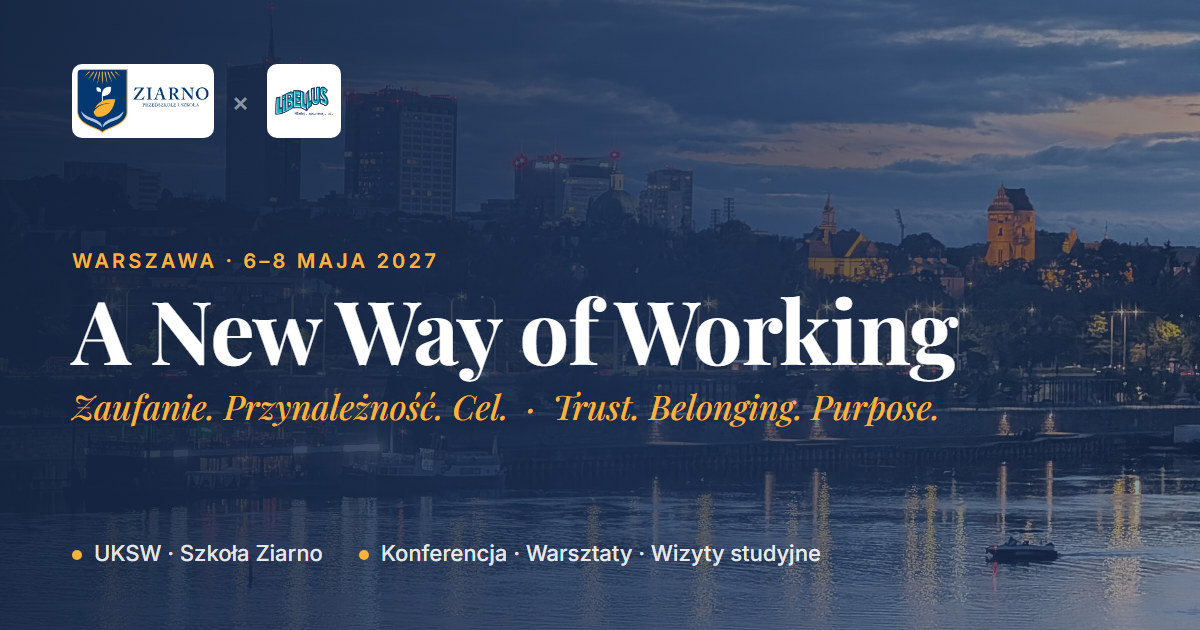
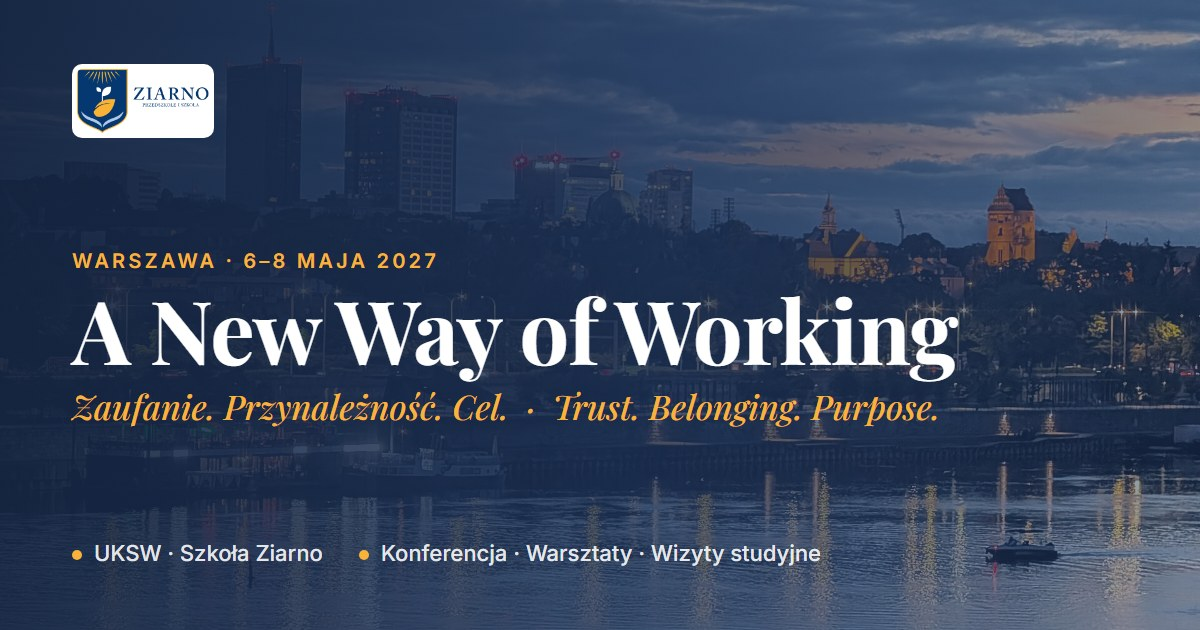
Poprawki Anety: kształtować, tytuł wykładu Lucíi, Chorwacja i Hiszpania, Libellus w partnerach, kolejność prelegentów, wizyty dla gości z zagranicy, kolejne warsztaty
Ukryte zaślepki TODO w sekcji Partnerzy; obrazek OG bez logo Libellus.

diff --git a/content/pl.js b/content/pl.js
@@ -47,18 +47,18 @@ window.CONTENT.pl = {
   why: {
     eyebrow: "Dlaczego warto",
     title: "Edukacja jest lepsza, gdy robimy ją razem",
-    lead: "Trzy dni w Warszawie z edukatorami, którzy dzielą Twoją misję: formować całego człowieka, nie tylko realizować podstawę programową.",
+    lead: "Trzy dni w Warszawie z edukatorami, którzy dzielą Twoją misję: kształtować całego człowieka, nie tylko realizować podstawę programową.",
     items: [
-      { icon: "users", title: "Buduj relacje", text: "Dołącz do edukatorów z Europy Środkowo-Wschodniej. Tworzymy przestrzeń dla przyjaźni i sojuszy, które trwają lata po zakończeniu konferencji." },
+      { icon: "users", title: "Buduj relacje", text: "Dołącz do edukatorów z Europy Środkowo-Wschodniej, Chorwacji i Hiszpanii. Tworzymy przestrzeń dla przyjaźni i sojuszy, które trwają lata po zakończeniu konferencji." },
       { icon: "message", title: "Dziel się praktyką", text: "Twoje doświadczenie jest bezcenne. Wymieńmy się rozwiązaniami w zakresie tutoringu i kształtowania charakteru, które sprawdziły się w realnych klasach, nie tylko w podręcznikach." },
-      { icon: "bulb", title: "Czas na refleksję", text: "Zatrzymaj się, by wraz z osobami rozumiejącymi Twoją misję uczciwie zastanowić się nad wyzwaniami formowania całego człowieka." },
+      { icon: "bulb", title: "Czas na refleksję", text: "Zatrzymaj się, by wraz z osobami rozumiejącymi Twoją misję uczciwie zastanowić się nad wyzwaniami kształtowania całego człowieka." },
     ],
   },
 
   who: {
     eyebrow: "Dla kogo",
     title: "Dla tych, którzy budują kulturę szkoły",
-    lead: "Niezależnie od tego, czy prowadzisz szkołę, uczysz, czy dopiero zaczynasz — jeśli formowanie całego człowieka jest sercem Twojej pracy, to spotkanie jest dla Ciebie.",
+    lead: "Niezależnie od tego, czy prowadzisz szkołę, uczysz, czy dopiero zaczynasz — jeśli kształtowanie całego człowieka jest sercem Twojej pracy, to spotkanie jest dla Ciebie.",
     items: [
       { title: "Liderzy szkół", text: "Zarządzający placówkami opartymi na wartościach." },
       { title: "Założyciele", text: "Twórcy nowych projektów edukacyjnych szukający merytorycznego wsparcia." },
@@ -82,13 +82,13 @@ window.CONTENT.pl = {
         theme: "Doświadczenie w terenie",
         blocks: [
           {
-            time: "dla chętnych",
+            time: "dla gości z zagranicy",
             venue: "Szkoły Strumienie (Józefów) i Azymut (Pruszków)",
             mapUrl: "https://www.google.com/maps/search/?api=1&query=Strumienie+Sternik+3+Maja+129+J%C3%B3zef%C3%B3w",
-            kicker: "Wizyty studyjne (opcjonalnie)",
+            kicker: "Wizyty studyjne dla gości z zagranicy",
             title: "Zwiedzanie szkół Strumienie i Azymut",
             text: "Obserwacja kultury organizacyjnej w praktyce: lekcje, tutoring, codzienne rytuały szkoły.",
-            bullets: ["Udział dla chętnych — zaznacz w formularzu zapisów.", "Grupy w małym składzie, oprowadzanie przez kadrę szkoły.", "TODO: godziny, punkt zbiórki i transport z Warszawy."],
+            bullets: ["Program dla gości z zagranicy — zaznacz udział w formularzu zapisów.", "Grupy w małym składzie, oprowadzanie przez kadrę szkoły.", "TODO: godziny, punkt zbiórki i transport z Warszawy."],
           },
           {
             time: "18:00",
@@ -116,7 +116,7 @@ window.CONTENT.pl = {
             items: [
               { time: "9:15", title: "Rejestracja i poranna kawa", note: "Networking otwarcia." },
               { time: "10:00", who: "TODO prelegent", title: "Otwarcie konferencji", note: "TODO opis sesji." },
-              { time: "10:15", who: "Lucía Calvo", lang: "EN", title: "TODO tytuł wystąpienia", note: "Tożsamość szkół edukacji spersonalizowanej i ich rola w nowoczesnym społeczeństwie." },
+              { time: "10:15", who: "Lucía Calvo", lang: "EN", title: "Szkoły budujące zaufanie: wyzwanie związane z nawiązywaniem więzi", note: "Tożsamość szkół edukacji spersonalizowanej i ich rola w nowoczesnym społeczeństwie." },
               { time: "11:00", who: "Dobrochna Lama", lang: "PL", title: "Kultura pracy, która wydobywa najlepsze z ludzi", note: "Zarządzanie, które służy, i ludzie na pierwszym miejscu — dwa Standardy Jakości Edukacji Spersonalizowanej w codziennej praktyce szkoły.",
                 abstract: [
                   "Czy dobra szkoła zaczyna się w klasie? A może trochę wcześniej — w pokoju nauczycielskim, w gabinecie dyrektora i przy stole, przy którym zapadają decyzje?",
@@ -202,10 +202,10 @@ window.CONTENT.pl = {
     ],
     workshops: {
       title: "Warsztaty — wybierasz w panelu uczestnika",
-      text: "Liczba miejsc na warsztatach jest ograniczona. W każdym z trzech bloków kilka sesji odbywa się równolegle, każda dla maksymalnie 40 osób. Lista prowadzących może się jeszcze poszerzyć — szczegółowy plan (godziny i sale) podamy bliżej konferencji.",
+      text: "Liczba miejsc na warsztatach jest ograniczona. W każdym z trzech bloków kilka sesji odbywa się równolegle, każda dla maksymalnie 40 osób. Dołączą kolejne osoby prowadzące — o nowych warsztatach będziemy informować na bieżąco. Szczegółowy plan (godziny i sale) podamy bliżej konferencji.",
       items: [
-        { speaker: "Lucía Calvo", sessions: [{ title: "TODO tytuł warsztatu", lang: "EN" }, { title: "TODO tytuł warsztatu", lang: "ES" }] },
         { speaker: "Dobrochna Lama", sessions: [{ title: "Kultura pracy, która wydobywa najlepsze z ludzi — warsztat", lang: "PL" }, { title: "A work culture that brings out the best in people — workshop", lang: "EN" }] },
+        { speaker: "Lucía Calvo", sessions: [{ title: "TODO tytuł warsztatu", lang: "EN" }, { title: "TODO tytuł warsztatu", lang: "ES" }] },
         { speaker: "Magda Tecław", sessions: [{ title: "Kształtowanie kultury szkoły w praktyce", lang: "PL" }, { title: "Shaping school culture in practice", lang: "EN" }] },
       ],
     },
@@ -219,8 +219,8 @@ window.CONTENT.pl = {
     readMore: "Czytaj więcej",
     readLess: "Zwiń",
     items: [
-      { name: "Lucía Calvo", role: "Red Educativa Arenales · Madryt", short: "Pedagożka i anglistka, która łączy kierowanie szkołami z pracą w klasie. Doradczyni sieci szkół Arenales, współpracuje z EASSE.", bio: "Urodziła się w Madrycie, a uczyła się w bardzo różnych szkołach: publicznych i prywatnych, koedukacyjnych i z edukacją zróżnicowaną, hiszpańskich i międzynarodowych — w Madrycie, Barcelonie, Cambridge, Rzymie i Sydney. Ukończyła pedagogikę (Magisterio y Ciencias de la Educación) na Uniwersytecie Complutense w Madrycie, a jako stypendystka — studia MA z lingwistyki na Macquarie University w Sydney. Zawodowo zawsze zajmowała się edukacją i nauczaniem angielskiego: dziesięć lat w szkolnictwie publicznym, potem w szkołach prywatnych i dotowanych przez państwo. Przez lata łączyła kierowanie kilkoma placówkami z uczeniem, zawsze w bliskim kontakcie z rodzinami i uczniami. Jest doradczynią sieci szkół Red Educativa Arenales i członkinią rady Fundacji Tacumi, która wspiera włączanie uczniów z niepełnosprawnością intelektualną do szkół ogólnodostępnych. Współpracuje z EASSE (European Association for Single-Sex Education) i należy do Hiszpańskiego Stowarzyszenia Kobiet Liderek w Edukacji. Zajmuje się formacją nauczycieli: wzmacnia ich przywództwo, poszerza horyzonty zawodowe i pomaga iść dalej w personalizacji edukacji.", photo: "images/speakers/lucia-calvo.jpg" },
       { name: "Dobrochna Lama", role: "Przywództwo i rozwój organizacji edukacyjnych", short: "Od ponad 20 lat łączy edukację, przywództwo i rozwój organizacyjny — jako nauczycielka, dyrektorka, konsultantka i menedżerka organizacji edukacyjnych.", bio: "Specjalizuje się w budowaniu i rozwijaniu organizacji, które pomagają ludziom wzrastać. Współtworzyła projekty edukacyjne o trwałym wpływie społecznym: szkolenia, rozwój liderów, prowadzenie placówek i wsparcie instytucji edukacyjnych w całej Polsce. Rozwijała programy obejmujące ponad 3000 nauczycieli rocznie, wspierała powstanie ponad 40 placówek edukacyjnych, zarządzała organizacjami zatrudniającymi ponad 200 osób i odpowiadała za budżety przekraczające 20 mln zł rocznych przychodów operacyjnych. Najbliższe są jej przedsięwzięcia tworzone od podstaw i organizacje w fazie dynamicznego wzrostu — jej mocną stroną jest przekładanie ambitnej wizji na sprawne struktury, procesy i zespoły. Ukończyła międzynarodowe programy menedżerskie w IESE Business School i Universidad Villanueva. Wierzy, że trwałe rezultaty powstają tam, gdzie wysoka jakość zarządzania spotyka się z troską o rozwój ludzi i jasno określoną misją.", photo: "images/speakers/dobrochna-lama.jpg" },
+      { name: "Lucía Calvo", role: "Red Educativa Arenales · Madryt", short: "Pedagożka i anglistka, która łączy kierowanie szkołami z pracą w klasie. Doradczyni sieci szkół Arenales, współpracuje z EASSE.", bio: "Urodziła się w Madrycie, a uczyła się w bardzo różnych szkołach: publicznych i prywatnych, koedukacyjnych i z edukacją zróżnicowaną, hiszpańskich i międzynarodowych — w Madrycie, Barcelonie, Cambridge, Rzymie i Sydney. Ukończyła pedagogikę (Magisterio y Ciencias de la Educación) na Uniwersytecie Complutense w Madrycie, a jako stypendystka — studia MA z lingwistyki na Macquarie University w Sydney. Zawodowo zawsze zajmowała się edukacją i nauczaniem angielskiego: dziesięć lat w szkolnictwie publicznym, potem w szkołach prywatnych i dotowanych przez państwo. Przez lata łączyła kierowanie kilkoma placówkami z uczeniem, zawsze w bliskim kontakcie z rodzinami i uczniami. Jest doradczynią sieci szkół Red Educativa Arenales i członkinią rady Fundacji Tacumi, która wspiera włączanie uczniów z niepełnosprawnością intelektualną do szkół ogólnodostępnych. Współpracuje z EASSE (European Association for Single-Sex Education) i należy do Hiszpańskiego Stowarzyszenia Kobiet Liderek w Edukacji. Zajmuje się formacją nauczycieli: wzmacnia ich przywództwo, poszerza horyzonty zawodowe i pomaga iść dalej w personalizacji edukacji.", photo: "images/speakers/lucia-calvo.jpg" },
       { name: "dr Stanisław Kowal", role: "Uniwersytet Jagielloński · Fundacja Sternik-Kraków", short: "Doktor pedagogiki, adiunkt w Studium Pedagogicznym UJ, dyrektor ds. edukacji Fundacji Sternik-Kraków i współzałożyciel szkół pracujących w nurcie edukacji spersonalizowanej.", bio: "Przez wiele lat kierował Centrum Kształcenia Nauczycieli Uniwersytetu Pedagogicznego w Krakowie. Jest autorem wielu publikacji naukowych, przede wszystkim z zakresu pedeutologii (nauki o nauczycielu), a także tekstów popularyzujących wiedzę pedagogiczną w czasopismach dla nauczycieli, wychowawców i rodziców. Organizuje i prowadzi konferencje naukowe oraz popularyzatorskie dla nauczycieli i rodziców. Opracował programy studiów podyplomowych przygotowujących do pracy nauczyciela, w tym pierwsze w Polsce studia podyplomowe z edukacji spersonalizowanej. Ekspert Ministerstwa Edukacji Narodowej oraz Ministerstwa Nauki i Szkolnictwa Wyższego ds. standardu kształcenia nauczycieli. Tutor akademicki i rodzinny. Współzałożyciel przedszkola i szkół Źródło i Wierchy w Krakowie. Mąż Marii, ojciec Marii, Julianny, Franciszka, Józefa, Ludwika, Wojciecha i Andrzeja.", photo: "images/speakers/stanislaw-kowal.jpg" },
       { name: "Magda Tecław", role: "Haileybury Malta · kultura szkoły", short: "Nauczycielka i liderka edukacyjna z ponad 20-letnim doświadczeniem w brytyjskich szkołach prywatnych, autorka książki „Zawód Nauczyciel”. Obecnie uczy w Haileybury Malta.", bio: "Przez ponad dwie dekady mieszkała w Wielkiej Brytanii, gdzie uczyła w szkołach podstawowych i średnich oraz pełniła funkcje kierownicze. Ukończyła PGCE in Secondary Education na University of East London, MA in Leadership in Catholic Education na St Mary’s University w Londynie, MA in Education na University of York, MA in Comparative Education na University College London (UCL) oraz MSc in Educational Assessment na Uniwersytecie Oksfordzkim. Jest autorką książki „Zawód Nauczyciel”, wydanej w Polsce w 2024 roku. Wiedzę akademicką łączy z codzienną pracą w klasie i wspieraniem innych nauczycieli. Mieszka na Malcie i uczy w brytyjskiej szkole międzynarodowej Haileybury Malta. Prywatnie żona i mama trojga studentów oraz nastoletniej córki; w wolnych chwilach nurkuje.", photo: "images/speakers/magda-teclaw.jpg" },
     ],
@@ -228,11 +228,10 @@ window.CONTENT.pl = {
 
   organisers: {
     eyebrow: "Organizatorzy",
-    title: "Gospodarz i partnerzy",
+    title: "Gospodarz i partner merytoryczny",
     items: [
       { name: "Szkoła Ziarno", tag: "Gospodarz edycji 2027", text: "Placówka edukacyjna w Warszawie — przedszkole i dwujęzyczna szkoła podstawowa — będąca żywym przykładem wdrażania omawianych wartości: personalizacji, partnerstwa z rodziną i wychowania charakteru.", url: "https://www.ziarno.edu.pl/", logo: "ziarno" },
       { name: "Red Educativa Arenales", tag: "Partner merytoryczny", text: "Sieć ponad 40 szkół w Hiszpanii i na świecie, rozwijająca edukację spersonalizowaną — partner merytoryczny konferencji.", url: "", logo: "", abbr: "Arenales" },
-      { name: "Škola Libellus", tag: "Inicjator cyklu NWoW", text: "Szkoła z Bratysławy — inicjator cyklu konferencji New Way of Working i gospodarz edycji 2026.", url: "https://skolalibellus.sk/", logo: "libellus" },
     ],
   },
 
@@ -240,6 +239,7 @@ window.CONTENT.pl = {
     eyebrow: "Partnerzy",
     title: "Połączeni wspólną wizją edukacji",
     items: [
+      { name: "Škola Libellus", url: "https://skolalibellus.sk/", logo: "" },
       { name: "EASSE", url: "https://www.easse.org/", logo: "" },
       { name: "Be-come", url: "https://be-come.org/en/", logo: "" },
       { name: "Akademia Rodzinna", url: "https://www.ziarno.edu.pl/akademia-rodzinna/", logo: "" },
@@ -282,7 +282,7 @@ window.CONTENT.pl = {
       { q: "Potrzebuję zaproszenia do wizy — czy je wystawicie?", a: "<p>Tak. Po opłaceniu udziału napisz na {{email}} z danymi paszportowymi, a wyślemy imienne zaproszenie w PDF.</p>", contact: true },
       { q: "Czy uwzględniacie diety?", a: "<p>Tak — wegetariańską, wegańską, bezglutenową i inne. Wpisz wymagania w formularzu; dotyczy to warsztatów kulinarnych, obiadów i Garden Party.</p>" },
       { q: "Jak dojechać?", a: "<p>Dojazd komunikacją miejską i z lotnisk opisujemy w sekcji Informacje praktyczne.</p>" },
-      { q: "Czy wizyty studyjne w czwartek są obowiązkowe?", a: "<p>Nie, są dla chętnych. Zaznacz udział w formularzu — liczba miejsc w szkołach jest ograniczona.</p>" },
+      { q: "Dla kogo są wizyty studyjne w czwartek?", a: "<p>Wizyty studyjne są przeznaczone dla gości z zagranicy. Zaznacz udział w formularzu — liczba miejsc w szkołach jest ograniczona.</p>" },
       { q: "Jak wybiorę warsztaty?", a: "<p>Po zapisie zalogujesz się do panelu uczestnika i sam wybierzesz jedną sesję w każdym z trzech sobotnich bloków. Liczba miejsc w sesji jest ograniczona, a wybór możesz zmieniać do 23 kwietnia 2027.</p>" },
     ],
   },

diff --git a/content/en.js b/content/en.js
@@ -48,7 +48,7 @@ window.CONTENT.en = {
     title: "Education is better done together",
     lead: "Three days in Warsaw with educators who share your mission — to form the whole person, not just teach a curriculum.",
     items: [
-      { icon: "users", title: "Connect", text: "Join educators from Central and Eastern Europe. We create space for friendships and alliances that last years beyond the conference." },
+      { icon: "users", title: "Connect", text: "Join educators from Central and Eastern Europe, Croatia and Spain. We create space for friendships and alliances that last years beyond the conference." },
       { icon: "message", title: "Share", text: "Your experience is invaluable. Exchange real-world tutoring and character formation solutions that work in actual classrooms, not just textbooks." },
       { icon: "bulb", title: "Reflect", text: "Pause and honestly reflect on the challenges of forming the whole person with peers who truly understand your mission." },
     ],
@@ -81,13 +81,13 @@ window.CONTENT.en = {
         theme: "Experience in the field",
         blocks: [
           {
-            time: "optional",
+            time: "for international guests",
             venue: "Strumienie (Józefów) and Azymut (Pruszków) schools",
             mapUrl: "https://www.google.com/maps/search/?api=1&query=Strumienie+Sternik+3+Maja+129+J%C3%B3zef%C3%B3w",
-            kicker: "School visits (optional)",
+            kicker: "School visits for international guests",
             title: "Tours of Strumienie and Azymut schools",
             text: "Observe organisational culture in practice: lessons, tutoring, the daily rituals of a school.",
-            bullets: ["Optional — tick it in the registration form.", "Small groups guided by the schools' staff.", "TODO: times, meeting point and transport from Warsaw."],
+            bullets: ["For guests from abroad — tick it in the registration form.", "Small groups guided by the schools' staff.", "TODO: times, meeting point and transport from Warsaw."],
           },
           {
             time: "18:00",
@@ -115,7 +115,7 @@ window.CONTENT.en = {
             items: [
               { time: "9:15", title: "Registration and morning coffee", note: "Opening networking." },
               { time: "10:00", who: "TODO speaker", title: "Opening", note: "TODO session description." },
-              { time: "10:15", who: "Lucía Calvo", lang: "EN", title: "TODO talk title", note: "The identity of personalized-education schools and their role in modern society." },
+              { time: "10:15", who: "Lucía Calvo", lang: "EN", title: "Trust-building schools: the challenge of connection", note: "The identity of personalized-education schools and their role in modern society." },
               { time: "11:00", who: "Dobrochna Lama", lang: "PL", title: "A Work Culture That Brings Out the Best in People", note: "Leadership that serves and people first — two of the Quality Standards for Personalized Education in a school’s everyday practice.",
                 abstract: [
                   "Does a good school begin in the classroom? Or perhaps a little earlier — in the staff room, in the principal’s office, and at the table where decisions are made?",
@@ -201,10 +201,10 @@ window.CONTENT.en = {
     ],
     workshops: {
       title: "Workshops — chosen in the participant portal",
-      text: "Workshop seats are limited. Each of the three blocks has several parallel sessions, each for up to 40 people. More facilitators may join — we will publish the detailed plan (times and rooms) closer to the conference.",
+      text: "Workshop seats are limited. Each of the three blocks has several parallel sessions, each for up to 40 people. More facilitators will join — we will keep you posted about new workshops. We will publish the detailed plan (times and rooms) closer to the conference.",
       items: [
-        { speaker: "Lucía Calvo", sessions: [{ title: "TODO workshop title", lang: "EN" }, { title: "TODO workshop title", lang: "ES" }] },
         { speaker: "Dobrochna Lama", sessions: [{ title: "Kultura pracy, która wydobywa najlepsze z ludzi — warsztat", lang: "PL" }, { title: "A work culture that brings out the best in people — workshop", lang: "EN" }] },
+        { speaker: "Lucía Calvo", sessions: [{ title: "TODO workshop title", lang: "EN" }, { title: "TODO workshop title", lang: "ES" }] },
         { speaker: "Magda Tecław", sessions: [{ title: "Kształtowanie kultury szkoły w praktyce", lang: "PL" }, { title: "Shaping school culture in practice", lang: "EN" }] },
       ],
     },
@@ -218,8 +218,8 @@ window.CONTENT.en = {
     readMore: "Read more",
     readLess: "Show less",
     items: [
-      { name: "Lucía Calvo", role: "Arenales Education Network · Madrid", short: "Educator and English teacher who combines school leadership with classroom teaching. Advisor to the Arenales Education Network; collaborates with EASSE.", bio: "Born in Madrid, she was educated in a wide variety of settings — public and private, co-educational and single-sex, Spanish and international — in Madrid, Barcelona, Cambridge, Rome and Sydney. She studied Teaching and Educational Sciences at the Complutense University of Madrid and, on a scholarship, completed an MA in linguistics at Macquarie University in Sydney. She has devoted her career to education and English teaching: ten years in the public system, then in private and state-subsidised schools. Throughout, she has combined leading several schools with direct teaching, always staying close to families and students. She is an advisor to the Arenales Education Network and a trustee of the Tacumi Foundation, which promotes the inclusion of students with intellectual disabilities in mainstream schools. She collaborates with EASSE (European Association for Single-Sex Education) and is a member of the Spanish Association of Women Leaders in Education. She also mentors teachers, strengthening their leadership and helping them take further steps towards a more personalised education.", photo: "images/speakers/lucia-calvo.jpg" },
       { name: "Dobrochna Lama", role: "Leadership and organizational development in education", short: "For over 20 years she has worked at the intersection of education, leadership and organizational development — as a teacher, principal, consultant and senior manager.", bio: "Her expertise is building and growing organizations that help people flourish. She has co-founded and developed educational initiatives with lasting social impact: training, leadership development, running schools and supporting educational institutions across Poland. She has developed programs reaching more than 3,000 teachers a year, supported the launch of over 40 schools and kindergartens, managed organizations with more than 200 employees, and been responsible for budgets exceeding PLN 20 million in annual operating revenue. She is especially drawn to ventures built from the ground up and organizations in rapid growth, turning an ambitious vision into effective structures, processes and teams. She has completed international management programs at IESE Business School and Universidad Villanueva. She believes lasting results come where high-quality management meets genuine care for people’s growth and a clearly defined mission.", photo: "images/speakers/dobrochna-lama.jpg" },
+      { name: "Lucía Calvo", role: "Arenales Education Network · Madrid", short: "Educator and English teacher who combines school leadership with classroom teaching. Advisor to the Arenales Education Network; collaborates with EASSE.", bio: "Born in Madrid, she was educated in a wide variety of settings — public and private, co-educational and single-sex, Spanish and international — in Madrid, Barcelona, Cambridge, Rome and Sydney. She studied Teaching and Educational Sciences at the Complutense University of Madrid and, on a scholarship, completed an MA in linguistics at Macquarie University in Sydney. She has devoted her career to education and English teaching: ten years in the public system, then in private and state-subsidised schools. Throughout, she has combined leading several schools with direct teaching, always staying close to families and students. She is an advisor to the Arenales Education Network and a trustee of the Tacumi Foundation, which promotes the inclusion of students with intellectual disabilities in mainstream schools. She collaborates with EASSE (European Association for Single-Sex Education) and is a member of the Spanish Association of Women Leaders in Education. She also mentors teachers, strengthening their leadership and helping them take further steps towards a more personalised education.", photo: "images/speakers/lucia-calvo.jpg" },
       { name: "Dr Stanisław Kowal", role: "Jagiellonian University · Sternik Foundation, Kraków", short: "PhD in pedagogy, assistant professor at the Jagiellonian University, Director of Education at the Sternik-Kraków Foundation and co-founder of schools rooted in personalised education.", bio: "For many years he headed the Teacher Education Centre at the Pedagogical University of Kraków; he now teaches in the Jagiellonian University’s Pedagogical Studies unit. He has written numerous academic publications, mainly in pedeutology (the study of the teaching profession), as well as articles for teachers, educators and parents. He organises and leads academic and popular conferences for teachers and parents. He designed postgraduate teacher-training programmes, including Poland’s first postgraduate programme in personalised education. He has served as an expert to the Polish Ministry of National Education and the Ministry of Science and Higher Education on teacher-training standards. He is an academic tutor and family tutor, and co-founder of the Źródło and Wierchy kindergarten and schools in Kraków. He is married to Maria and is the father of Maria, Julianna, Franciszek, Józef, Ludwik, Wojciech and Andrzej.", photo: "images/speakers/stanislaw-kowal.jpg" },
       { name: "Magda Tecław", role: "Haileybury Malta · school culture", short: "Teacher and educational leader with over 20 years in British independent schools; author of the book Zawód Nauczyciel. Currently teaches at Haileybury Malta.", bio: "Having lived in the UK for over twenty years, she taught in both primary and secondary schools and held a range of leadership roles. She holds a PGCE in Secondary Education (University of East London), an MA in Leadership in Catholic Education (St Mary’s University, London), an MA in Education (University of York), an MA in Comparative Education (University College London) and an MSc in Educational Assessment (University of Oxford). She is the author of Zawód Nauczyciel (“Profession: Teacher”), published in Poland in 2024. She brings this academic background into her daily classroom practice and her support for fellow teachers. She lives in Malta, where she teaches at Haileybury Malta, a British international school. She is a wife and mother of three university students and a teenage daughter, and a keen recreational scuba diver.", photo: "images/speakers/magda-teclaw.jpg" },
     ],
@@ -227,11 +227,10 @@ window.CONTENT.en = {
 
   organisers: {
     eyebrow: "Organisers",
-    title: "Host and partners",
+    title: "Host and content partner",
     items: [
       { name: "Ziarno School", tag: "Host of the 2027 edition", text: "An educational institution in Warsaw — a preschool and a bilingual primary school — a living example of the values discussed: personalization, family partnership and character education.", url: "https://www.ziarno.edu.pl/", logo: "ziarno" },
       { name: "Arenales Education Network", tag: "Content partner", text: "A network of over 40 schools in Spain and worldwide, developing personalised education — the content partner of the conference.", url: "", logo: "", abbr: "Arenales" },
-      { name: "Škola Libellus", tag: "Initiator of the NWoW series", text: "A school in Bratislava — initiator of the New Way of Working conference series and host of the 2026 edition.", url: "https://skolalibellus.sk/", logo: "libellus" },
     ],
   },
 
@@ -239,6 +238,7 @@ window.CONTENT.en = {
     eyebrow: "Partners",
     title: "United by a shared vision for education",
     items: [
+      { name: "Škola Libellus", url: "https://skolalibellus.sk/", logo: "" },
       { name: "EASSE", url: "https://www.easse.org/", logo: "" },
       { name: "Be-come", url: "https://be-come.org/en/", logo: "" },
       { name: "Family Academy", url: "https://www.ziarno.edu.pl/akademia-rodzinna/", logo: "" },
@@ -281,7 +281,7 @@ window.CONTENT.en = {
       { q: "I need a visa invitation letter — can you issue one?", a: "<p>Yes. After paying, e-mail {{email}} with your passport details and we'll send a personal invitation letter as a PDF.</p>", contact: true },
       { q: "Do you cater for dietary requirements?", a: "<p>Yes — vegetarian, vegan, gluten-free and others. Enter your requirements in the form; they apply to the cooking workshop, lunches and the garden party.</p>" },
       { q: "How do I get there?", a: "<p>Public transport and airport connections are described in Practical information.</p>" },
-      { q: "Are the Thursday school visits mandatory?", a: "<p>No, they are optional. Tick your participation in the form — places in the schools are limited.</p>" },
+      { q: "Who are the Thursday school visits for?", a: "<p>The school visits are intended for our guests from abroad. Tick your participation in the form — places in the schools are limited.</p>" },
       { q: "How do I choose workshops?", a: "<p>After registering, you sign in to the participant portal and pick one session in each of the three Saturday blocks yourself. Seats per session are limited and you can change your choice until 23 April 2027.</p>" },
     ],
   },

diff --git a/js/render.js b/js/render.js
@@ -79,8 +79,7 @@
   // ---------- sekcje ----------
   function renderHeader(T, lang) {
     var logoZ = C.logoZiarno ? '<img src="' + esc(C.logoZiarno) + '" alt="Ziarno">' : '<span class="brand-text">Ziarno</span>';
-    var logoL = C.logoLibellus ? '<img class="lib" src="' + esc(C.logoLibellus) + '" alt="Škola Libellus">' : "";
-    document.getElementById("brand").innerHTML = logoZ + (logoL ? '<span class="brand-x">×</span>' + logoL : "");
+    document.getElementById("brand").innerHTML = logoZ;
     document.getElementById("brand").setAttribute("aria-label", esc(T.nav.brand));
     document.getElementById("nav-links").innerHTML = T.nav.links.map(function (l) { return '<a href="' + esc(l.href) + '">' + esc(l.label) + "</a>"; }).join("");
     // "Zaloguj się" dla osób już zapisanych — obok "Zapisz się" (nagłówek na desktopie, menu mobilne)
@@ -165,7 +164,7 @@
     }).join("");
     var O = T.organisers;
     var orgs = O.items.map(function (o) {
-      var logo = o.logo === "ziarno" && C.logoZiarno ? '<img src="' + esc(C.logoZiarno) + '" alt="">' : o.logo === "libellus" && C.logoLibellus ? '<img src="' + esc(C.logoLibellus) + '" alt="">' : esc(o.abbr || o.name.split(" ")[0]);
+      var logo = o.logo === "ziarno" && C.logoZiarno ? '<img src="' + esc(C.logoZiarno) + '" alt="">' : esc(o.abbr || o.name.split(" ")[0]);
       return '<div class="card org"><div class="org-logo">' + logo + '</div><div><span class="tag">' + esc(o.tag) + "</span><h3>" + esc(o.name) + "</h3><p>" + esc(o.text) + "</p>" + (o.url ? '<p style="margin-top:8px"><a href="' + esc(o.url) + '" target="_blank" rel="noopener">' + esc(o.url.replace(/^https?:\/\//, "").replace(/\/$/, "")) + "</a></p>" : "") + "</div></div>";
     }).join("");
     document.getElementById("speakers-content").innerHTML = head(S) + '<div class="grid grid-3">' + cards + "</div>" +
@@ -175,8 +174,10 @@
   function renderPartners(T) {
     var P = T.partners;
     var logo = function (p) { return '<a href="' + esc(p.url) + '" target="_blank" rel="noopener" title="' + esc(p.name) + '">' + (p.logo ? '<img src="' + esc(p.logo) + '" alt="' + esc(p.name) + '">' : '<span class="ph">' + esc(p.name) + "</span>") + "</a>"; };
-    var media = P.media && P.media.items.length ? '<h3 class="partners-sub">' + esc(P.media.title) + '</h3><div class="partners media">' + P.media.items.map(logo).join("") + "</div>" : "";
-    document.getElementById("partners-content").innerHTML = head(P, true) + '<div class="partners">' + P.items.map(logo).join("") + "</div>" + media +
+    var real = function (p) { return !isTodo(p.name); };   // zaślepki "TODO" nie trafiają na stronę
+    var mediaItems = P.media ? P.media.items.filter(real) : [];
+    var media = mediaItems.length ? '<h3 class="partners-sub">' + esc(P.media.title) + '</h3><div class="partners media">' + mediaItems.map(logo).join("") + "</div>" : "";
+    document.getElementById("partners-content").innerHTML = head(P, true) + '<div class="partners">' + P.items.filter(real).map(logo).join("") + "</div>" + media +
       (C.contactEmail && P.callout ? '<div class="callout"><div><h3>' + esc(P.callout.title) + "</h3><p>" + esc(P.callout.text) + '</p></div><a class="btn" href="mailto:' + esc(C.contactEmail) + '">' + icon("mail") + esc(P.callout.cta) + "</a></div>" : "");
   }
 
@@ -278,11 +279,10 @@
     var fb = '<svg viewBox="0 0 24 24"><path d="M13.5 22v-8h2.7l.4-3.2h-3.1V8.8c0-.9.3-1.6 1.6-1.6h1.7V4.4c-.3 0-1.3-.1-2.5-.1-2.5 0-4.1 1.5-4.1 4.2v2.3H7.4V14h2.8v8h3.3z"/></svg>';
     var ig = '<svg viewBox="0 0 24 24"><path d="M12 7.3A4.7 4.7 0 1 0 12 16.7 4.7 4.7 0 0 0 12 7.3zm0 7.7a3 3 0 1 1 0-6 3 3 0 0 1 0 6zm6-7.9a1.1 1.1 0 1 1-2.2 0 1.1 1.1 0 0 1 2.2 0zM21 8.1c-.1-1.5-.4-2.8-1.5-3.9S17.1 2.8 15.6 2.7C14 2.6 9.9 2.6 8.4 2.7 6.9 2.8 5.6 3.1 4.5 4.2S3 6.6 2.9 8.1c-.1 1.5-.1 6.2 0 7.7.1 1.5.4 2.8 1.5 3.9s2.4 1.4 3.9 1.5c1.5.1 6.2.1 7.7 0 1.5-.1 2.8-.4 3.9-1.5s1.4-2.4 1.5-3.9c.1-1.5.1-6.2 0-7.7zm-2 9.4a3 3 0 0 1-1.7 1.7c-1.2.5-4 .4-5.3.4s-4.1.1-5.3-.4a3 3 0 0 1-1.7-1.7c-.5-1.2-.4-4-.4-5.3s-.1-4.1.4-5.3A3 3 0 0 1 6.7 5C7.9 4.5 10.7 4.6 12 4.6s4.1-.1 5.3.4A3 3 0 0 1 19 6.7c.5 1.2.4 4 .4 5.3s.1 4.1-.4 5.5z"/></svg>';
     var logoZ = C.logoZiarno ? '<img src="' + esc(C.logoZiarno) + '" alt="Ziarno">' : "";
-    var logoL = C.logoLibellus ? '<span class="brand-x">×</span><img src="' + esc(C.logoLibellus) + '" alt="Škola Libellus">' : "";
     document.getElementById("footer").innerHTML =
-      '<div class="wrap"><div><div class="f-brand">' + logoZ + logoL + '</div><div class="f-title">' + esc(T.hero.title) + " 2027</div><p>" + esc(F.org) + "<br>" + esc(F.address) + "</p></div>" +
+      '<div class="wrap"><div><div class="f-brand">' + logoZ + '</div><div class="f-title">' + esc(T.hero.title) + " 2027</div><p>" + esc(F.org) + "<br>" + esc(F.address) + "</p></div>" +
       "<div><h3>" + esc(F.linksTitle) + "</h3><ul>" + F.links.map(function (l) { return '<li><a href="' + esc(l.href) + '">' + esc(l.label) + "</a></li>"; }).join("") + (C.invitePdf && T.hero.invite ? '<li><a href="' + esc(C.invitePdf) + '" target="_blank" rel="noopener">' + esc(T.hero.invite) + "</a></li>" : "") + "</ul></div>" +
-      "<div><h3>" + esc(F.contactTitle) + "</h3><ul>" + (C.contactEmail ? '<li><a href="mailto:' + esc(C.contactEmail) + '">' + esc(C.contactEmail) + "</a></li>" : "") + '<li><a href="https://www.ziarno.edu.pl/" target="_blank" rel="noopener">ziarno.edu.pl</a></li><li><a href="https://skolalibellus.sk/" target="_blank" rel="noopener">skolalibellus.sk</a></li></ul></div>' +
+      "<div><h3>" + esc(F.contactTitle) + "</h3><ul>" + (C.contactEmail ? '<li><a href="mailto:' + esc(C.contactEmail) + '">' + esc(C.contactEmail) + "</a></li>" : "") + '<li><a href="https://www.ziarno.edu.pl/" target="_blank" rel="noopener">ziarno.edu.pl</a></li></ul></div>' +
       "<div><h3>" + esc(F.socialTitle) + '</h3><div class="social-row">' + (s.facebook ? '<a href="' + esc(s.facebook) + '" target="_blank" rel="noopener" aria-label="Facebook">' + fb + "</a>" : "") + (s.instagram ? '<a href="' + esc(s.instagram) + '" target="_blank" rel="noopener" aria-label="Instagram">' + ig + "</a>" : "") + "</div></div></div>" +
       '<div class="bottom-bar">' + esc(F.copy) + ' · <a href="' + esc(F.privacyUrl) + '">' + esc(F.privacy) + "</a>" + (C.termsPage && F.terms ? ' · <a href="' + esc(C.termsPage) + '">' + esc(F.terms) + "</a>" : "") +
       (C.heroCredit ? '<br><span class="credit">' + esc(F.photo) + ': <a href="' + esc(C.heroCredit.url) + '" target="_blank" rel="noopener">' + esc(C.heroCredit.text) + "</a></span>" : "") + "</div>";

diff --git a/content/portal.js b/content/portal.js
@@ -45,7 +45,7 @@ window.PORTAL_CONTENT = {
     options: {
       title: "Program dodatkowy", lead: "Zaznacz, w czym weźmiesz udział — dzięki temu zaplanujemy catering i transport.",
       items: {
-        school_visits: { label: "Czwartek · wizyty studyjne (Strumienie, Azymut)", hint: "dla chętnych, ograniczona liczba miejsc" },
+        school_visits: { label: "Czwartek · wizyty studyjne (Strumienie, Azymut)", hint: "dla gości z zagranicy, ograniczona liczba miejsc" },
         gocook: { label: "Czwartek 18:00 · warsztaty kulinarne i kolacja w GoCook", hint: "" },
         garden: { label: "Piątek 18:00 · Garden Party w Szkole Ziarno", hint: "" },
         mass: { label: "Sobota 8:00 · Msza św. w Szkole Ziarno", hint: "opcjonalnie" },
@@ -118,7 +118,7 @@ window.PORTAL_CONTENT = {
     options: {
       title: "Extra program", lead: "Tick what you'll join — it helps us plan catering and transport.",
       items: {
-        school_visits: { label: "Thursday · school visits (Strumienie, Azymut)", hint: "optional, limited places" },
+        school_visits: { label: "Thursday · school visits (Strumienie, Azymut)", hint: "for international guests, limited places" },
         gocook: { label: "Thursday 18:00 · cooking workshop and dinner at GoCook", hint: "" },
         garden: { label: "Friday 18:00 · garden party at Ziarno School", hint: "" },
         mass: { label: "Saturday 8:00 · Holy Mass at Ziarno School", hint: "optional" },

diff --git a/js/config.js b/js/config.js
@@ -82,6 +82,5 @@ window.KONF = {
   // Zdjęcie z Wikimedia Commons (CC BY-SA 4.0) — wymaga podpisu w stopce. Własne zdjęcie: heroCredit: null
   heroCredit: { text: "Oleslawlama, CC BY-SA 4.0, Wikimedia Commons", url: "https://commons.wikimedia.org/wiki/File:Evening_skyline_Warsaw_skyscrapers_Vistula_River.jpg" },
   logoZiarno: "https://www.ziarno.edu.pl/wp-content/uploads/2023/04/logo-ziarno.png", // TODO: images/logo-ziarno.svg
-  logoLibellus: "images/logo-libellus.png",
   ogImage: "images/og.jpg",
 };

diff --git a/tools/og.html b/tools/og.html
@@ -21,7 +21,7 @@
 </head>
 <body>
 <div class="og"><div class="in">
-  <div class="top"><img src="https://www.ziarno.edu.pl/wp-content/uploads/2023/04/logo-ziarno.png" alt=""><span class="x">×</span><img src="../images/logo-libellus.png" alt=""></div>
+  <div class="top"><img src="https://www.ziarno.edu.pl/wp-content/uploads/2023/04/logo-ziarno.png" alt=""></div>
   <div>
     <div class="eyebrow">Warszawa · 6–8 maja 2027</div>
     <h1>A New Way of Working</h1>
